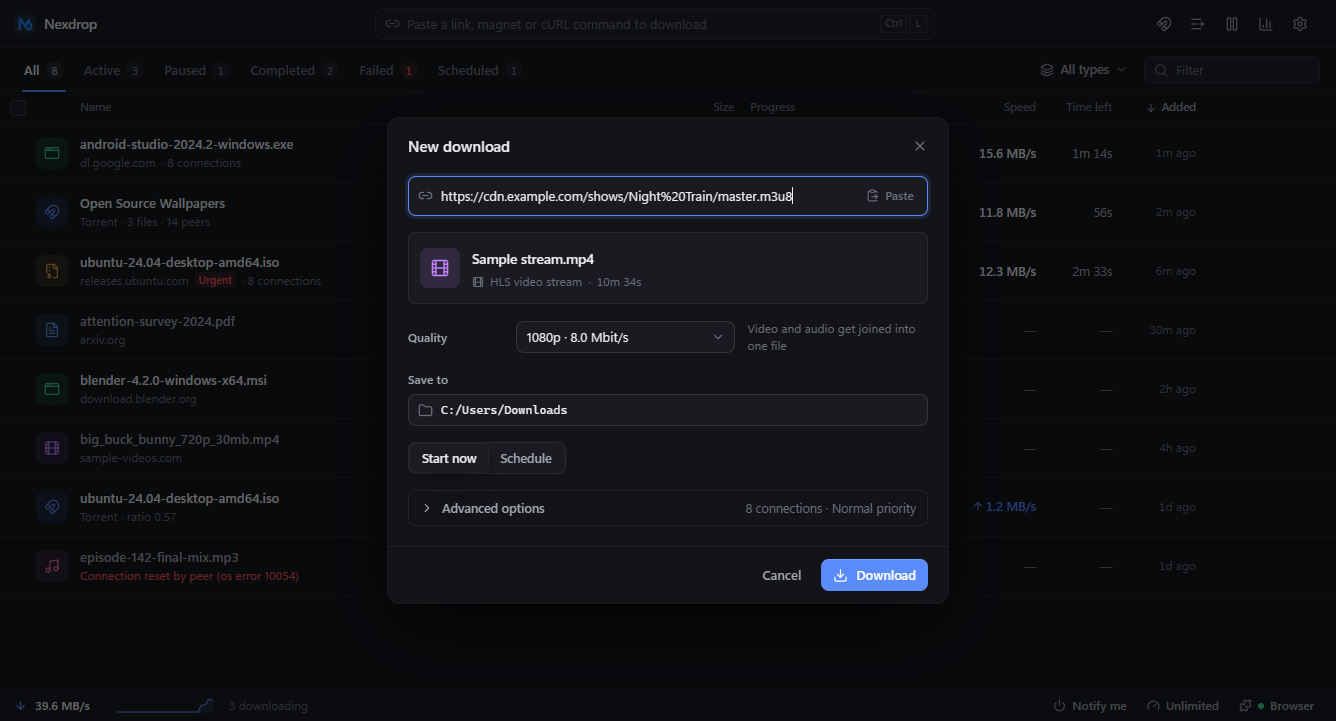
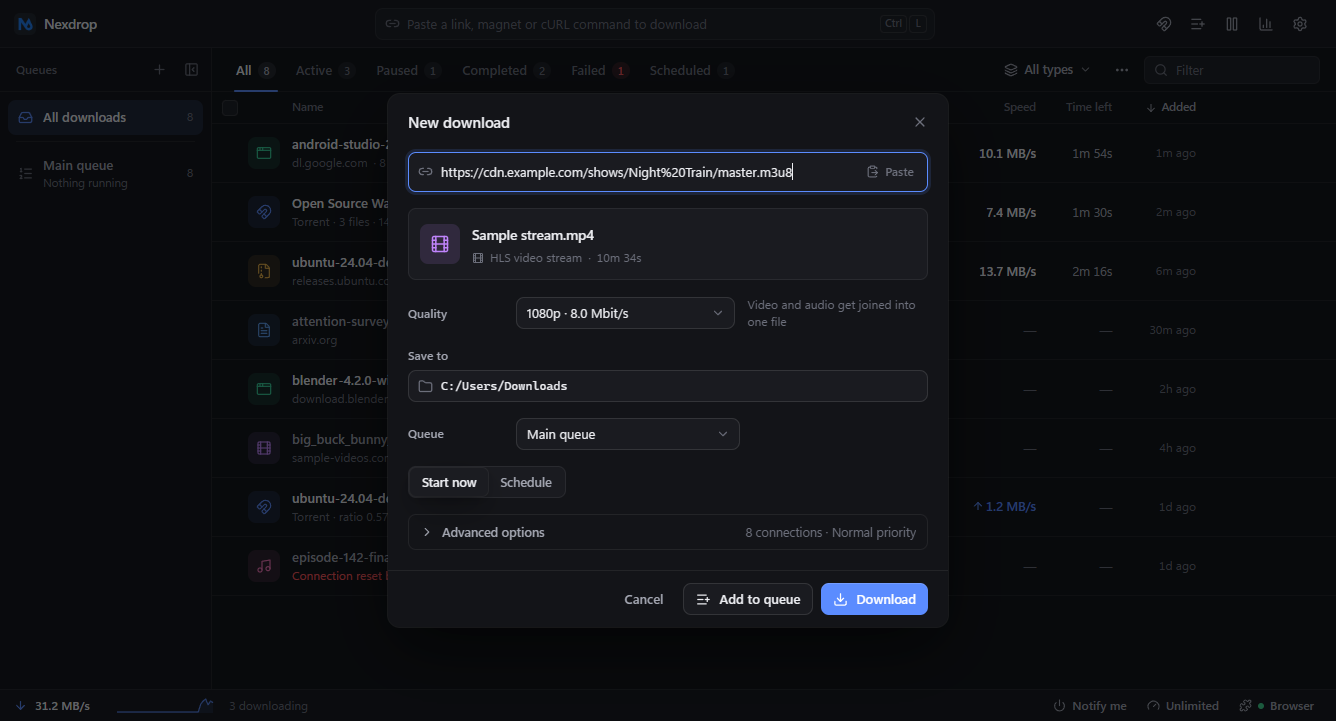
Docs: bring README, roadmap, engine report and publishing guide in line with the code
- README: preview macOS/Linux builds, in-app updates and the signing key release.sh needs,
  Rust 1.90 / Node 22, the full list of test scripts and tools, project map, refreshed screenshots
- ROADMAP: queue panel and order, bulk actions, Find the download, video button and menu changes,
  signed Firefox add-on marked done, new reliability and upkeep section
- ENGINE_REPORT: per-server limit now enforced; slice-CDN corruption and its fix; adapters; proxies; idle cost
- BACKEND_REVIEW and IDM guide marked as history / plan; publishing guide: .env.amo, correct package paths

diff --git a/README.md b/README.md
@@ -1,6 +1,7 @@
 # Nexdrop
 
-A fast, safe, modern download manager for Windows, built with Tauri 2 (Rust) and React.
+A fast, safe, modern download manager for Windows (macOS and Linux builds are in preview), built with
+Tauri 2 (Rust) and React.
 Multi-connection acceleration, a real scheduler with queues, streaming-video downloads,
 torrents, and a browser extension that catches downloads and videos like IDM does.
 
@@ -75,8 +76,9 @@ torrents, and a browser extension that catches downloads and videos like IDM doe
 ![Browser setup](docs/screenshots/connect-browsers.png)
 
 **Also**: BitTorrent and magnet links with file selection, Mark of the Web on downloads,
-checksum verification, saved site logins (encrypted), proxy support, system tray with
-live status, start with Windows, and a single clean interface that stays out of the way.
+checksum verification, saved site logins (encrypted), file-exists and duplicate-link handling,
+"Refresh link" for expired downloads, a per-server connection limit, system tray with live
+status, start with Windows, and a single clean interface that stays out of the way.
 
 ## Light when idle
 
@@ -96,13 +98,17 @@ background checks read only the few rows they need instead of the whole download
 Run `Nexdrop_<version>_x64-setup.exe`. It installs for the current user, needs no admin
 rights, and Nexdrop offers to connect your browsers the first time it starts.
 
+- **Updates** are offered inside the app (Settings → About) and are signed; installing always asks first.
+- **macOS and Linux** preview builds (`.dmg`, `.AppImage`, `.deb`) are produced by the GitHub Actions
+  build on every push. They compile and pass the unit tests but haven't been run on real machines
+  yet, and some Windows-specific parts (start with Windows, browser detection) are not there.
 - **Firefox** gets a Mozilla-signed add-on (one click, permanent).
 - **Chrome / Edge / Brave** load the extension from Nexdrop's folder; the setup window opens
   the extensions page and shows the folder. Developer mode has to be switched on by you.
 
 ## Build from source
 
-Needs Node 20+, pnpm, Rust 1.85+ and the MSVC build tools (WebView2 ships with Windows).
+Needs Node 22, pnpm, Rust 1.90+ and the MSVC build tools (WebView2 ships with Windows).
 Use a Git Bash shell on Windows so the native dependencies find the MSVC environment.
 
 ```bash
@@ -111,8 +117,12 @@ pnpm tauri dev                 # run it
 bash scripts/release.sh        # build the installer into release/<version>/
 ```
 
-`release/<version>/` gets `installer/` (the setup exe), `build/` (the app) and `extension/`
-(per-browser extension packages).
+`release.sh` signs the update with a key that stays on your machine (`.env.updater.key` and
+`.env.updater`, git-ignored; create them with `pnpm tauri signer generate`, and put the public key in
+`src-tauri/tauri.conf.json`). Without them it refuses to build, because an unsigned build can't be
+offered as an update. `release/<version>/` gets `installer/` (the setup exe, its `.sig` and the
+`latest.json` the updater reads; upload all three to the GitHub release), `build/` (the app) and
+`extension/` (per-browser extension packages).
 
 ## Tests
 
@@ -121,24 +131,36 @@ cd src-tauri && cargo test --release     # unit + integration tests
 cargo test --release --test network_lab -- --ignored --nocapture --test-threads=1
 ```
 
-End-to-end scripts in `scripts/` drive the real app and real browsers:
-`e2e_release.py` (install, launch, tray, uninstall), `e2e_queues.py`, `e2e_streams.py`,
-`e2e_bridge.py`, `e2e_extension.py` (Edge and Firefox), `e2e_browser_connect.py`,
-`verify_streams.py` (decodes downloaded videos).
+End-to-end scripts in `scripts/` drive the real app (close Nexdrop first; each backs up and restores
+your database) and real browsers:
+
+- App: `e2e_release.py` (install, launch, tray, uninstall), `e2e_queues.py`, `e2e_queue_order.py`
+  (reordering, Download now), `e2e_bulk.py` (Add multiple), `e2e_features.py` (refresh link, replace,
+  removing unfinished downloads, proxy test), `e2e_resolver.py` (Find the download),
+  `e2e_many_links.py` (the browser's links window), `e2e_streams.py`, `e2e_bridge.py`,
+  `e2e_browser_connect.py`.
+- Browsers: `e2e_extension.py` (Edge and Firefox), `e2e_video_button.py`, `verify_signed_xpi.py`.
+- Tools: `verify_streams.py` (decodes downloaded videos), `bench_vs_idm.py` (timing against an
+  installed IDM on a local server), `measure_idle.ps1` (idle CPU and memory), `find_shifted.py` and
+  `repair_parts.py` (find and repair files damaged by a CDN's slice bug, see `ENGINE_REPORT.md`).
 
 ## Project map
 
 ```
 src/                  React 19 + TypeScript + Tailwind interface
-src-tauri/src/engine  download engine, queues, scheduler, streams (HLS/DASH), torrents
+src-tauri/src/engine  download engine, queues and their order, scheduler, streams (HLS/DASH), torrents
+src-tauri/src/resolver.rs   "Find the download" (pages with a Download button)
+src-tauri/src/network.rs    network adapters for multi-connection downloads
 src-tauri/src/browsers.rs   browser detection and extension connection status
+src-tauri/tests/      integration tests and the network lab (a server that misbehaves on purpose)
 extensions/           browser extension (+ signed/ for the Mozilla-signed Firefox build)
 scripts/              release, signing, packaging and end-to-end test scripts
 docs/                 publishing guide and screenshots
 ```
 
 More: `ROADMAP.md` (what's done and what's next), `ENGINE_REPORT.md` (speed and reliability
-measurements), `docs/browser-extension-publishing.md` (signing and store publishing).
+measurements and the engine's history), `docs/browser-extension-publishing.md` (signing and store
+publishing), `BACKEND_REVIEW.md` (the October 2026 code review, kept as history).
 
 ---
 

diff --git a/ROADMAP.md b/ROADMAP.md
@@ -19,7 +19,9 @@ Status: `[x]` done, `[ ]` to do, `[~]` partly done.
 - [x] Per-queue "when finished" action: nothing, quit Nexdrop, sleep, hibernate, shut down, lock, or run a program
 - [x] Cancelable countdown before sleep / hibernate / shut down
 - [x] Per-queue automatic retry of failed downloads (count and delay)
-- [x] Queue filter in the list (shown only once more than one queue exists)
+- [x] Queues always in view: a side panel lists them with what each is doing, filters the list, and starts / stops a queue in place
+- [x] Manage the line like IDM: Download next, move up / down / to the end (menu, Alt+arrows), Download now past a full queue, drag downloads onto a queue; "Next up" / "#N in line" labels; the order survives restarts
+- [x] Bulk actions: Clear completed, Retry all, Pause all, Resume all (a button on the matching tab, and a ⋯ menu), Remove failed
 - [x] Existing scheduler settings migrate into the Main queue
 - [x] Add-dialog scheduling ("download later") keeps working
 
@@ -55,10 +57,13 @@ Status: `[x]` done, `[ ]` to do, `[~]` partly done.
 - [x] Videos and PDFs you click download instead of opening in the tab
 - [x] Download button over playing videos, finding HLS/DASH streams and video files the page loaded, with a picker when there are several
 - [x] Panel listing the videos and files on the current page (toolbar popup, with a badge count)
+- [x] Video button only over real videos (no muted loops or short clips), only when something can be downloaded, and a × to hide it for the page
+- [x] Right-click: "Download all N files on this page" (file links only) and "Download N selected links", shown only when they apply; links named from their text
+- [x] "Find the download": a link that is a web page with a Download button (file hosts); Nexdrop opens it in its own view, presses the button and takes the file (only when pressed)
 - [x] Firefox support (same package; verified in real Firefox and Edge by `scripts/e2e_extension.py`)
 - [x] First-run setup: Nexdrop finds Chrome, Edge, Brave and Firefox, opens each one's extensions page, shows what to click and waits until the browser connects
 - [x] The app shows which browsers are connected (Settings > Browser, status bar nudge until one is set up)
-- [ ] Get the Firefox extension signed by Mozilla (unlisted): create AMO API keys and run `python scripts/sign_firefox.py` (see docs/browser-extension-publishing.md); the installer then offers a one-click add-on
+- [x] The Firefox extension is signed by Mozilla (unlisted) with `python scripts/sign_firefox.py` (see docs/browser-extension-publishing.md); the installer bundles the signed add-on
 - [ ] Publish the extension to the Chrome Web Store, Edge Add-ons and Mozilla Add-ons (needed for one-click install and for Firefox to keep it after restarts)
 - [ ] POST-based downloads (forms that return a file)
 - [ ] Start Nexdrop automatically when the browser sends a download and it isn't running
@@ -67,7 +72,7 @@ Status: `[x]` done, `[ ]` to do, `[~]` partly done.
 
 - [x] "Refresh link": paste a new link onto a failed or expired download and resume it
 - [x] Automatic retry of failed downloads (see Queues)
-- [ ] Re-fetch an expired link from the page it came from (extension)
+- [ ] Re-fetch an expired link from the page it came from (extension; "Find the download" does this by hand today)
 
 ## 6. Download dialogs and prompts
 
@@ -102,3 +107,17 @@ Status: `[x]` done, `[ ]` to do, `[~]` partly done.
 - [ ] Speed-limit toggle in the tray
 - [ ] Per-event sounds
 - [ ] More languages (UI strings extracted first)
+
+## 11. Reliability, safety and upkeep (done)
+
+- [x] Every finished download of 16 MiB or more is checked against the server before it is kept; wrong parts are downloaded again ("Verifying…" in the list)
+- [x] Ranges are cut on 4 MiB boundaries and mid-slice requests are avoided (a CDN bug that shifted data), see ENGINE_REPORT.md
+- [x] Activity log per download and "Copy diagnostics"
+- [x] Add multiple returns at once: links are checked in the background, appear in order, failures are reported by address
+- [x] Removing an unfinished download always removes its temporary data, without asking
+- [x] Signed updates from GitHub releases, offered inside the app (Settings → About)
+- [x] Light when idle: low memory while hidden in the tray, no polling while hidden, cheap background checks
+- [x] Network adapters: use one connection or several at once (Settings → Connections)
+- [x] About page and licence
+- [ ] Windows installer code signing (SmartScreen still warns)
+- [ ] macOS and Linux builds tested on real machines (they are built and unit-tested in CI only)

diff --git a/ENGINE_REPORT.md b/ENGINE_REPORT.md
@@ -85,9 +85,9 @@ the engine reaches the cap of every connection it opens.
 
 ## Not done / next candidates
 
-- `max_connections_per_server` is still a setting that nothing reads.
 - No automatic re-queue after a download fails for good, for example after
-  10 minutes offline. The user retries manually.
+  10 minutes offline. Queues can retry failed downloads a set number of times
+  (Settings → Queues); beyond that the user retries manually.
 - No duplicate-request "endgame" for the last slow range. Work stealing plus
   the stall rule cover the measured cases.
 
@@ -112,3 +112,38 @@ are downloaded as streams: `src-tauri/src/engine/stream/`.
 - **Refused with a reason:** live streams, DRM, and SAMPLE-AES.
 - **Tests:** `tests/stream_test.rs` (10 scenarios), `scripts/e2e_streams.py`
   (the real app, 15 checks), `tests/stream_real.rs` (real internet streams).
+
+## Since this report was first written
+
+**Connections per server is enforced** (`max_connections_per_server`, default 16). The count is shared by
+every download from the same host, so several downloads from one site can't open 8 each. A download
+that has more than its fair share steps aside when another one is waiting for a connection. The lab
+test `lab_connections_per_server_are_shared` checks it.
+
+**Slice-based CDNs and corrupted files.** Some CDNs (nginx slice caching) answer a range that starts
+inside one of their 4 MiB slices with the data of the *next* slice, under a header that claims the
+requested start. Whole stretches of a finished file then hold correct data in the wrong place, and
+archives report "checksum error" or "corrupt header". Real downloads were hit by this. What the engine
+does now:
+
+- Pieces and work-stealing cuts land on 4 MiB boundaries, so most requests never start mid-slice.
+- A finished file of 16 MiB or more is scanned offline for the bug's fingerprint (a copy of the next
+  slice's first 4 KiB inside the slice before it), compared against the server at samples on slice
+  boundaries and at the start of every response that began mid-slice, and any wrong response is
+  downloaded again (up to three times, then the download fails with a clear message).
+- A host caught doing this is only asked for whole slices from then on.
+- Lab tests: `lab_slice_cdn_is_never_corrupt` (a server that mangles every mid-slice range, sometimes
+  cut short, on a flaky link) and `lab_ranges_start_on_slice_boundaries`.
+- `scripts/find_shifted.py` and `scripts/repair_parts.py` find and repair files downloaded by older versions.
+
+**Several network adapters.** Each selected adapter gets its own client bound to its address, ranges
+spread over them, and a range moves to the next adapter when one stops answering. Only the source
+address is bound; with a single real internet link this can't be shown to add speeds, only that the
+connections leave from the chosen address (`a_client_bound_to_an_address_connects_from_it`).
+
+**Proxies.** Custom proxies can be HTTP or SOCKS5 with a login (`socks5h`, so names resolve through the
+proxy); a proxy address that can't be used blocks the download instead of falling back to a direct
+connection. Tested against a real SOCKS5 server that requires a login.
+
+**Idle cost.** Hidden in the tray the whole app plus WebView2 uses about 135 MB and about 0.35% of one
+core; with the window open about 380 MB. `scripts/measure_idle.ps1` measures it.

diff --git a/docs/browser-extension-publishing.md b/docs/browser-extension-publishing.md
@@ -19,12 +19,13 @@ Each time you release:
 
 1. Raise `version` in `extensions/nexdrop-browser-extension/manifest.json`
    (Mozilla refuses a version it has already seen).
-2. In a terminal:
+2. Put the keys where the script finds them, either in a git-ignored `.env.amo` file in the repo root
+   (`AMO_JWT_ISSUER=...` and `AMO_JWT_SECRET=...`, one per line) or as environment variables, then in a
+   terminal:
    ```
-   set AMO_JWT_ISSUER=user:12345:67
-   set AMO_JWT_SECRET=your-secret
    python scripts/sign_firefox.py
    ```
+   Keep the secret out of chat and git; if it ever leaks, generate new credentials on the same page.
    Node.js must be installed. After a few minutes the signed file appears at
    `extensions/signed/nexdrop-firefox.xpi`.
 3. Rebuild the installer (`bash scripts/release.sh`). It bundles the signed file.
@@ -45,13 +46,13 @@ Nexdrop's first-run setup opens the extensions page for you, shows the folder, a
 tells you when the connection is working. Nothing has to be signed.
 
 If you later want one-click installs for everyone, publish the `chromium` package
-(`release/extension/nexdrop-chromium-<version>.zip`) to the Chrome Web Store and
+(`release/<app version>/extension/nexdrop-chromium-<extension version>.zip`; the extension has its own version number, set in its `manifest.json`) to the Chrome Web Store and
 Edge Add-ons, as *unlisted* if you don't want a public page.
 
 ## Building the packages
 
 ```
-python scripts/package_extension.py release/extension
+python scripts/package_extension.py release/<app version>/extension
 ```
 writes clean per-browser folders and zips (the sources carry both browsers' keys
-so the folder also loads directly during development).
+so the folder also loads directly during development). `bash scripts/release.sh` does this for you.

diff --git a/BACKEND_REVIEW.md b/BACKEND_REVIEW.md
@@ -1,5 +1,11 @@
 # Nexdrop Backend Review
 
+> **A snapshot from 2026-10-18, kept as history.** Most of what it lists has since been fixed (the
+> phase tables below show the first two rounds); the current state is in `README.md`, `ROADMAP.md`
+> and `ENGINE_REPORT.md`. Details that have changed since: up to 16 connections open at once (not 8),
+> retries and mirrors work as described in `ENGINE_REPORT.md`, and saved logins are encrypted and
+> applied to requests.
+
 **Scope:** everything except the interface. That covers the Rust engine (`src-tauri/src/**`), the SQLite layer, the Tauri commands, the browser bridge server, the scheduler, the tray, the IPC contract with the frontend, and the browser extension.
 **Goals measured against:** (1) the fastest possible downloads, (2) safe downloads, (3) torrent support, (4) code that is free of bugs and performance problems.
 **Date:** 2026-10-18. Line numbers refer to the current `main`.

diff --git a/IDM_SETTINGS_AND_FEATURES.md b/IDM_SETTINGS_AND_FEATURES.md
@@ -1,5 +1,7 @@
 # Complete Guide to IDM Settings & Features and Nexdrop Implementation Plan
 
+> This is the original analysis and plan. What has been built, and what hasn't, is tracked in `ROADMAP.md`.
+
 This document provides a comprehensive analysis of **Internet Download Manager (IDM)**'s settings, tabs, architecture, and feature set, alongside the concrete implementation plan for **Nexdrop**.
 
 ---
